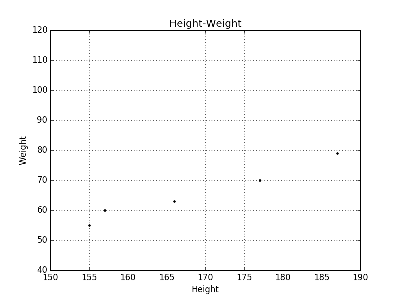
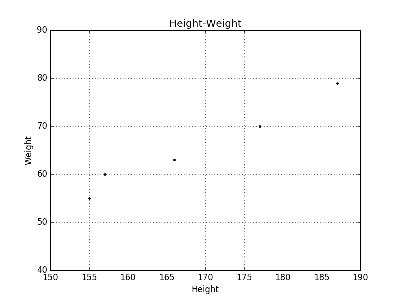
update

diff --git a/source/_posts/机器学习常用算法——线性回归.md b/source/_posts/机器学习常用算法——线性回归.md
@@ -33,7 +33,7 @@ def runplt():
     plt.title(u'Height-Weight')
     plt.xlabel(u'Height')
     plt.ylabel(u'Weight')
-    plt.axis([150, 190, 40, 120])
+    plt.axis([150, 190, 40, 90])
     plt.grid(True)
     return plt
 
